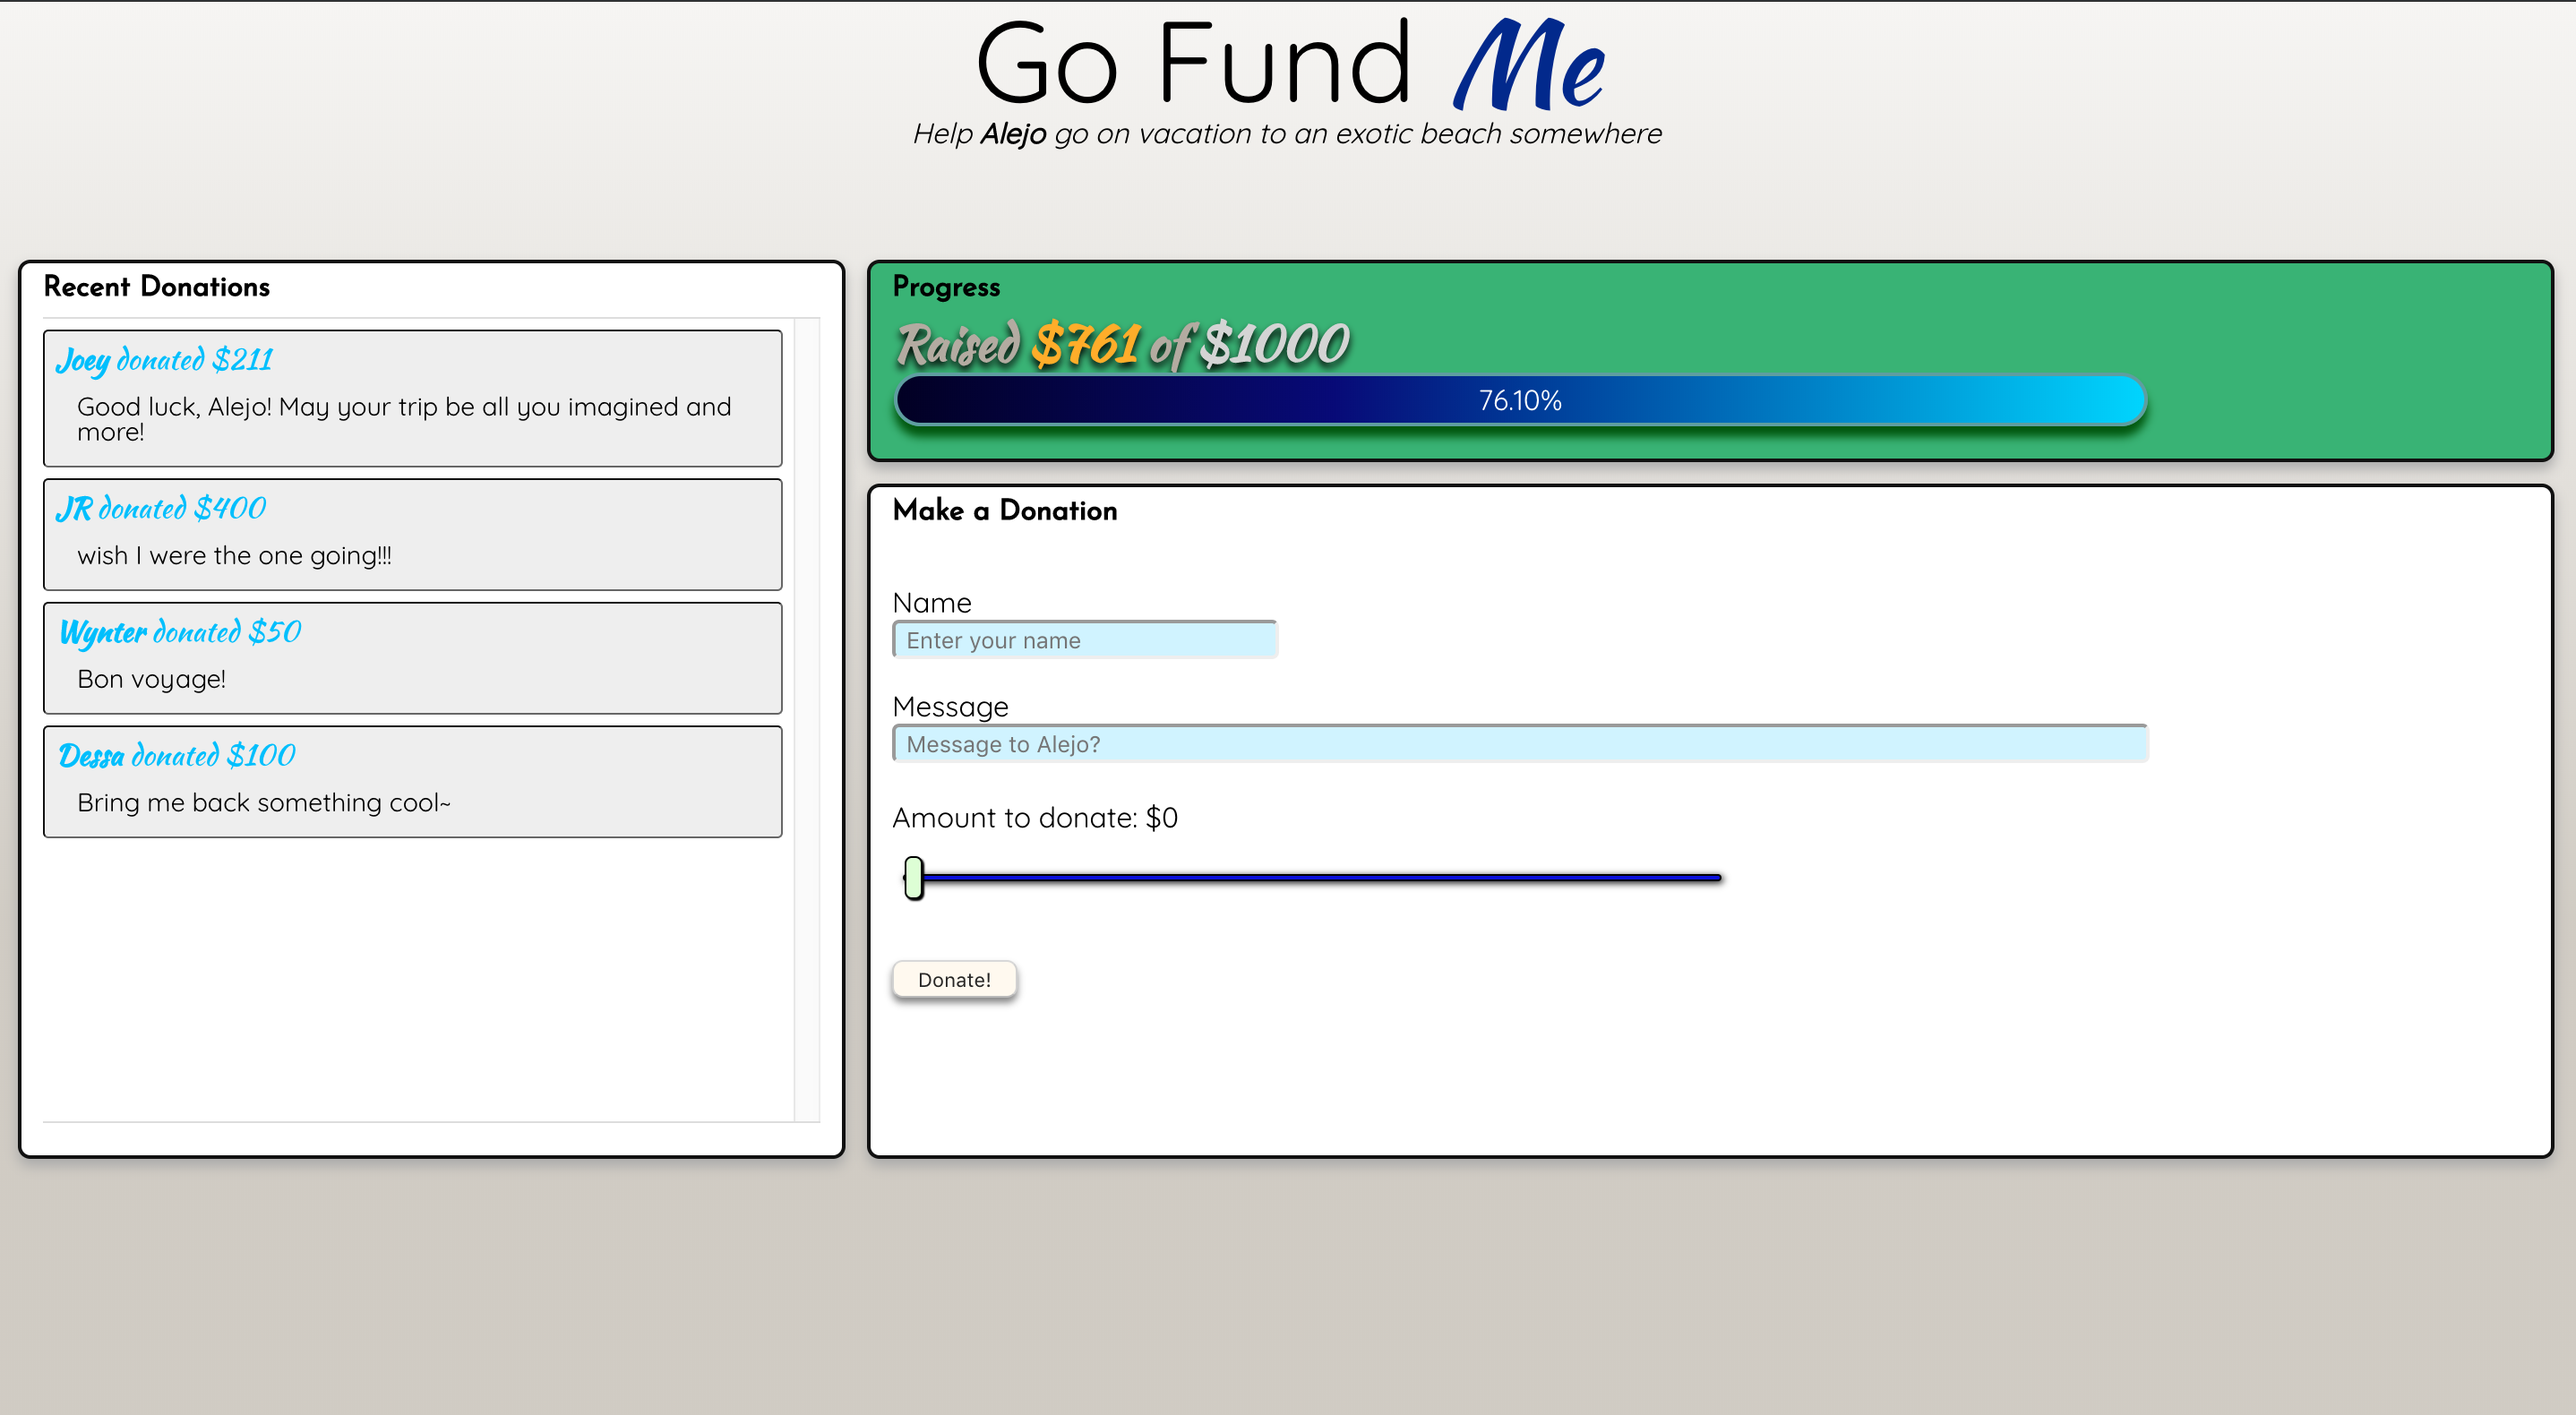
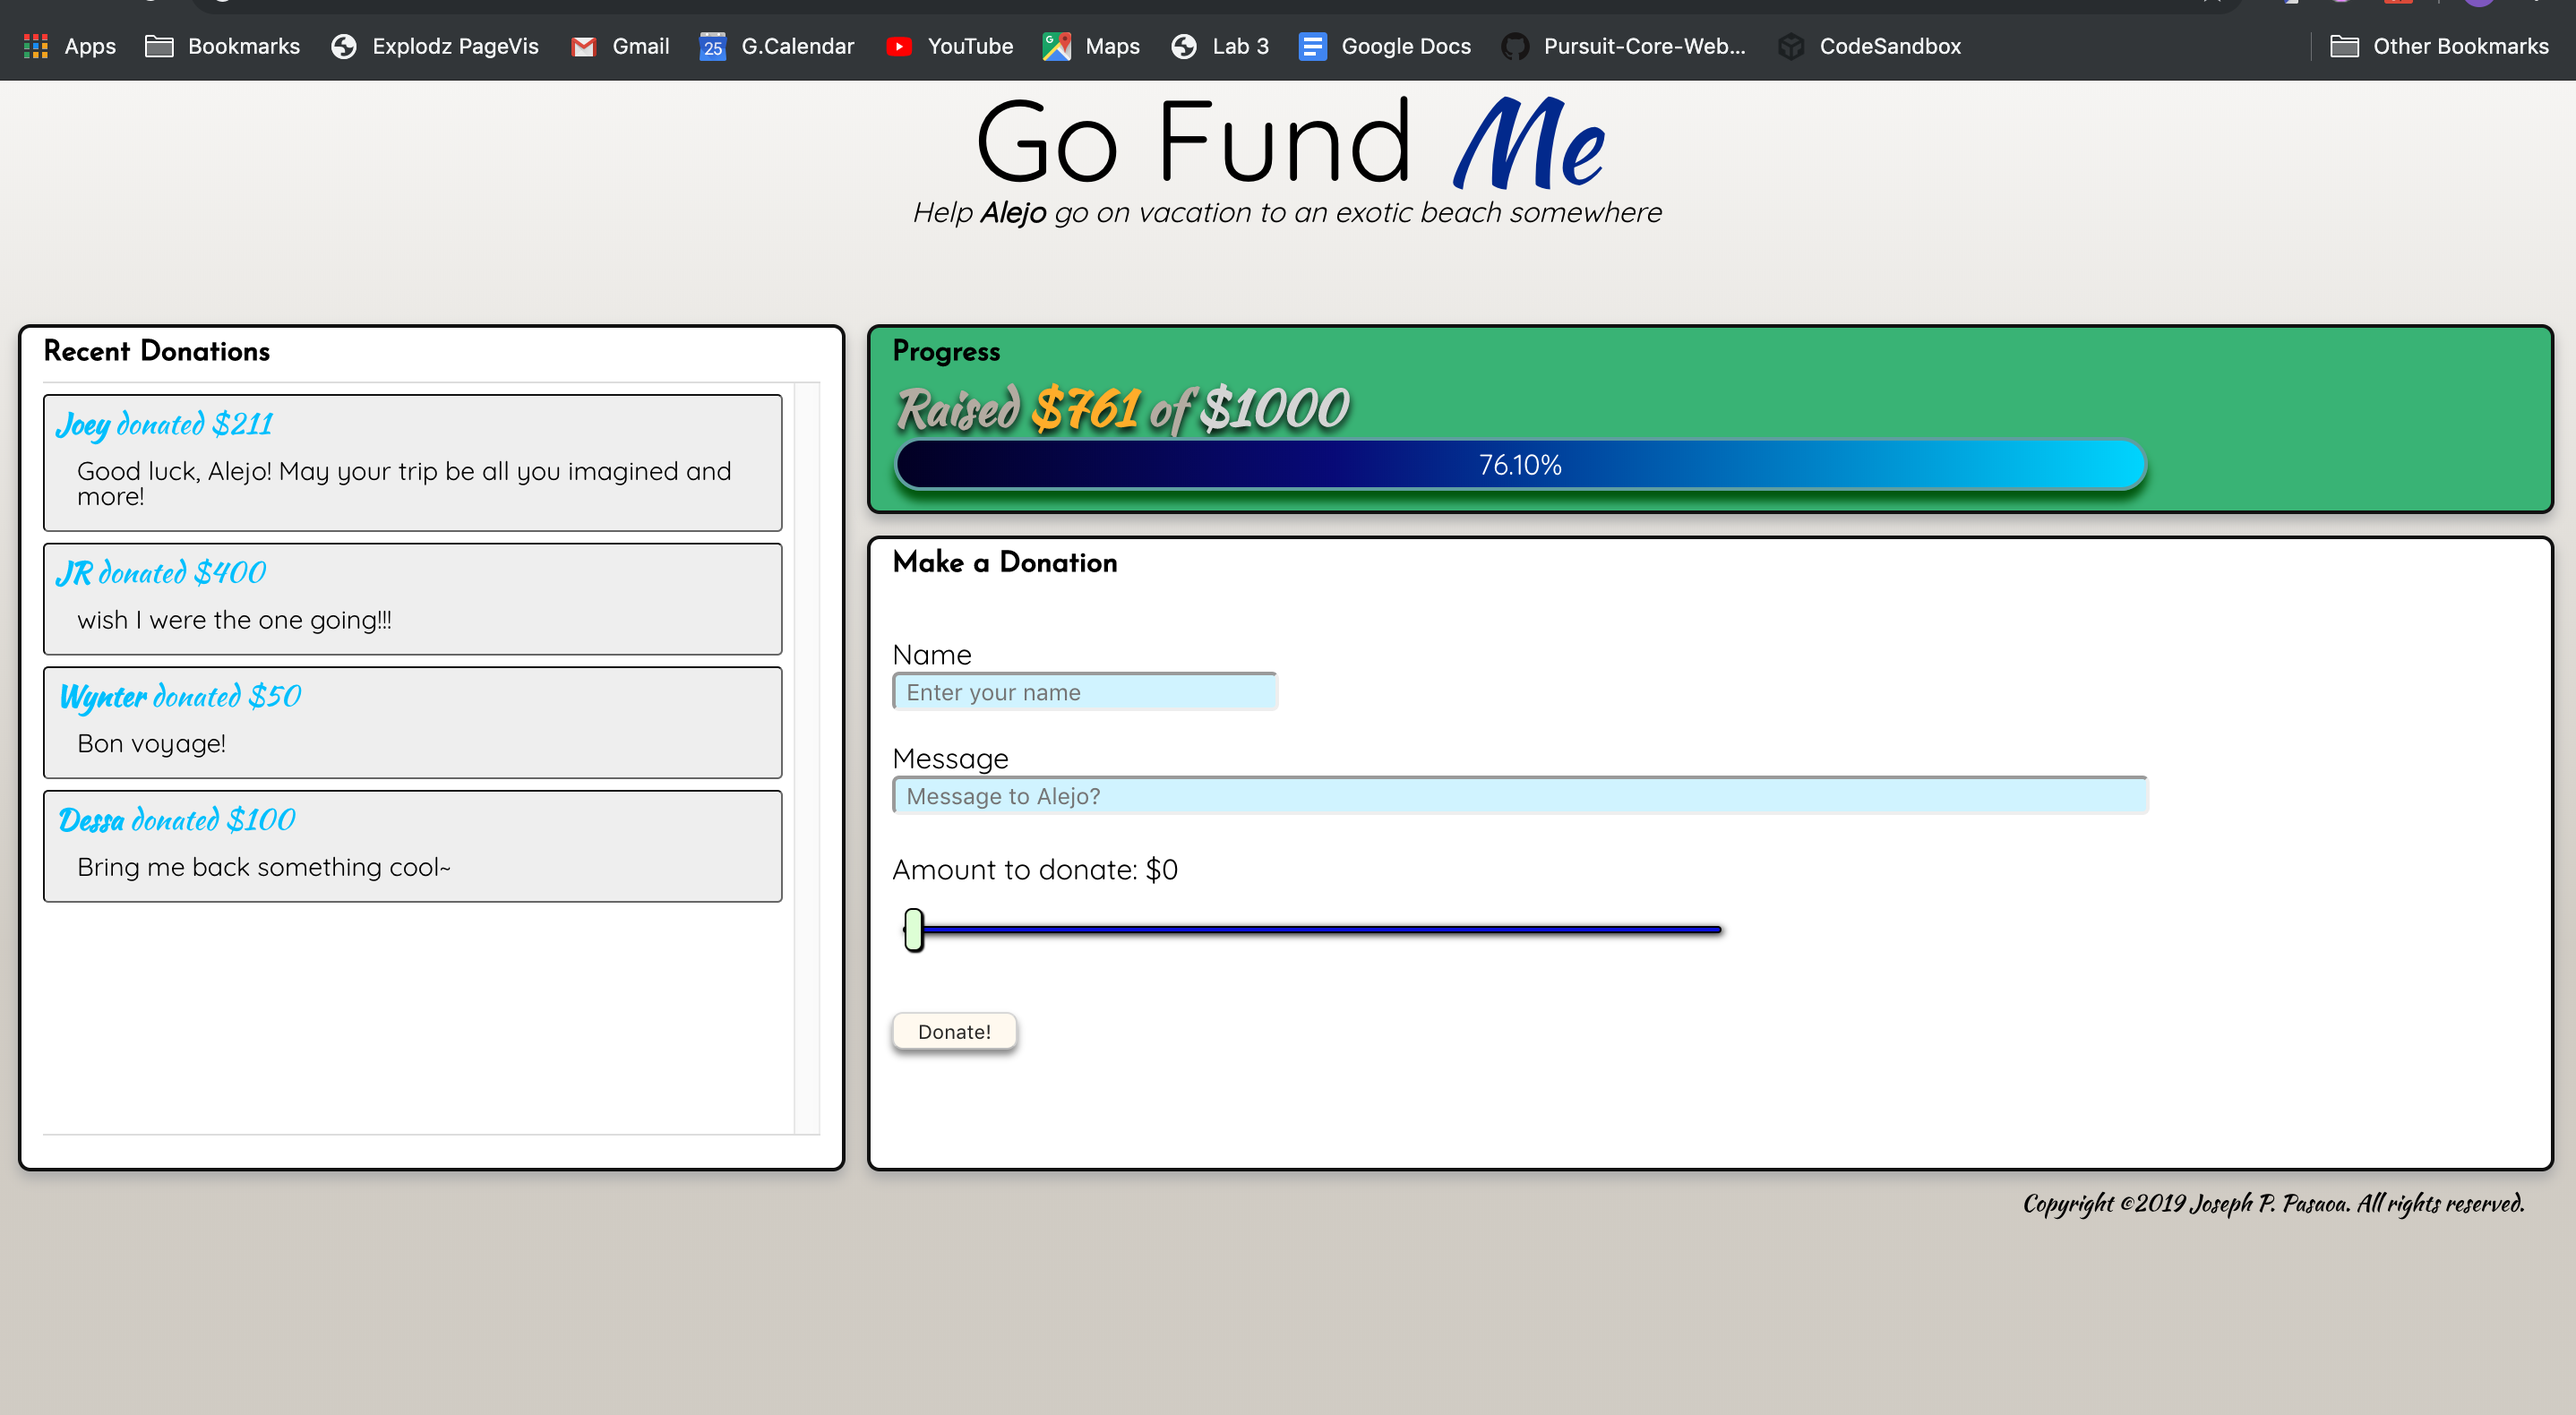
2.2, added footer, updated cap and README

Changed region(s): [[0.0, 0.0, 1.0, 0.7443], [0.0, 0.8063, 0.9903, 0.8684]]

diff --git a/src/App.js b/src/App.js
@@ -95,6 +95,7 @@ class App extends Component {
             msgValue={msgValue}
             errorMsgOpacity={errorMsgOpacity} 
           />
+          <footer>Copyright ©2019 Joseph P. Pasaoa. All rights reserved.</footer>
         </div>
       </div>
     );

diff --git a/src/App.css b/src/App.css
@@ -115,3 +115,12 @@ h2 {
   font-family: 'Josefin Sans', sans-serif;
   font-weight: bold;
 }
+
+footer {
+  grid-column: 2;
+  margin-right: 2vw;
+
+  text-align: right;
+  font-family: 'Kaushan Script', cursive;
+  font-size: 0.8em;
+}
